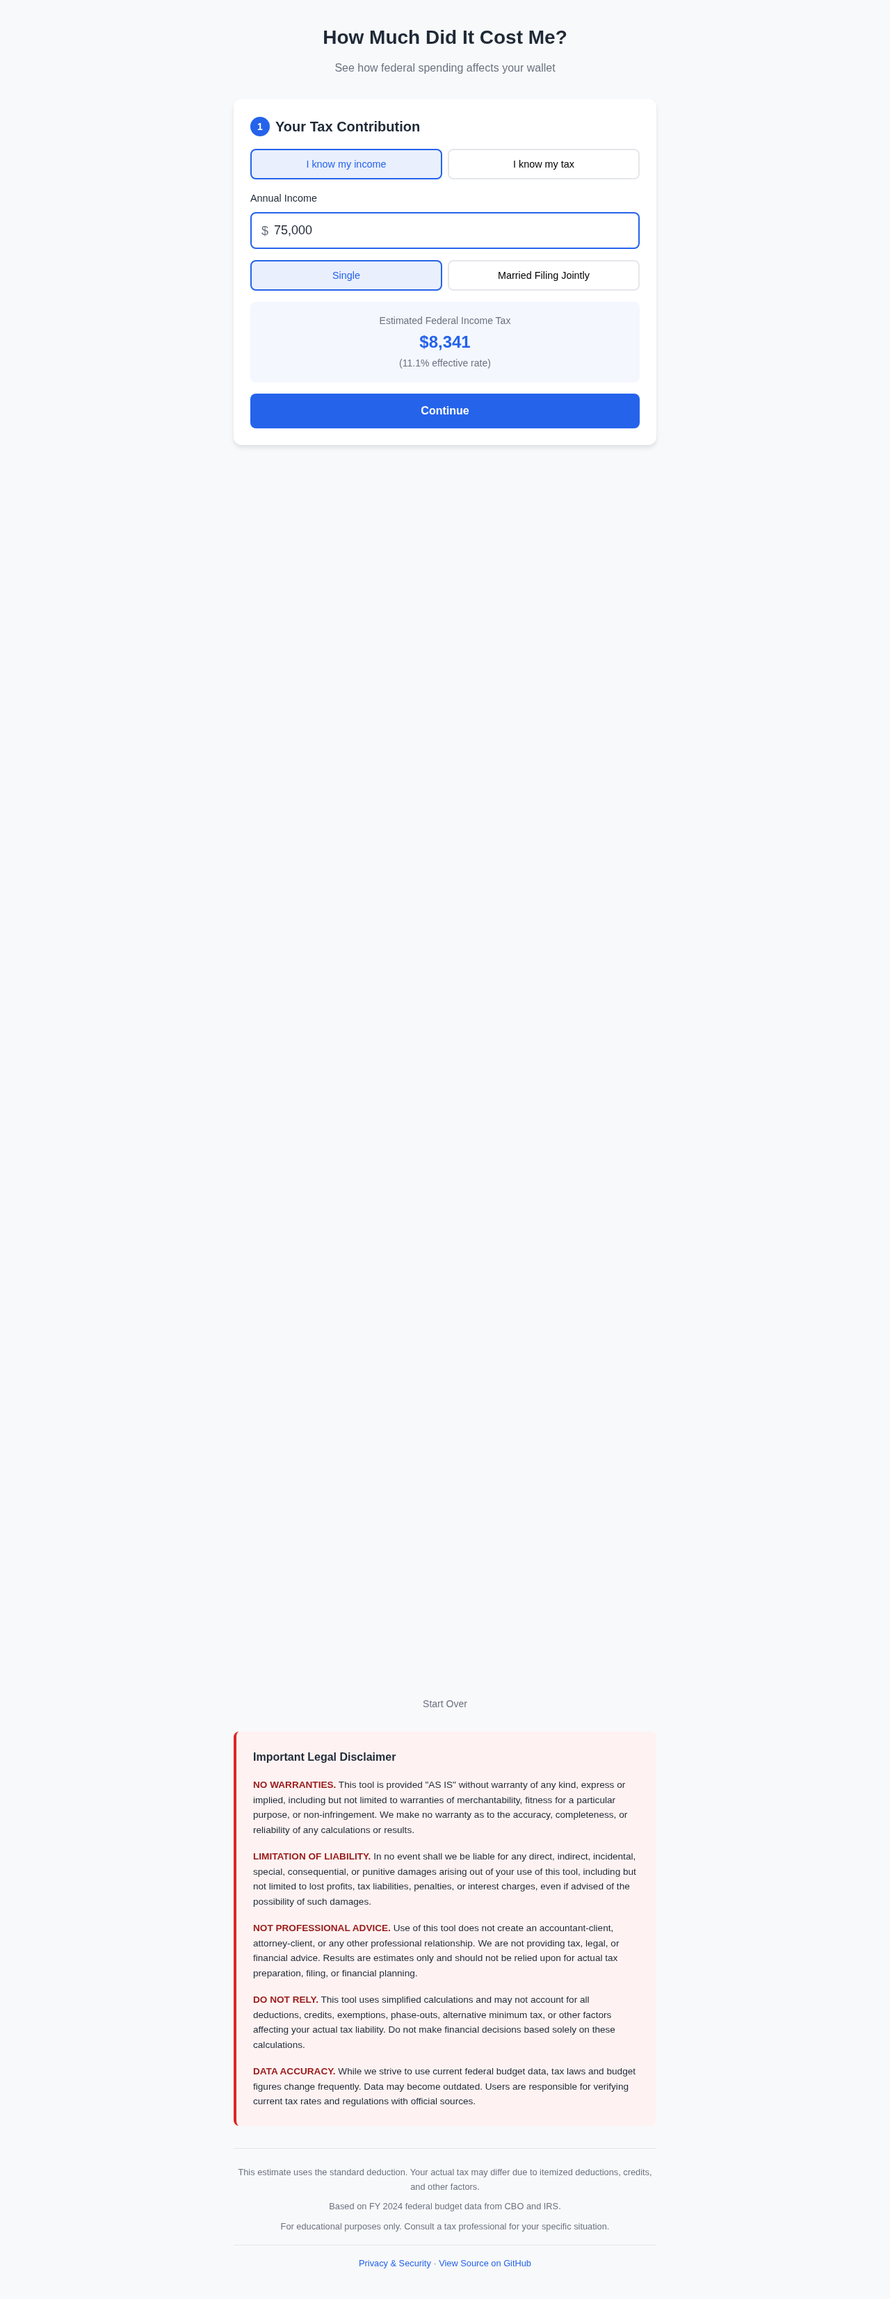
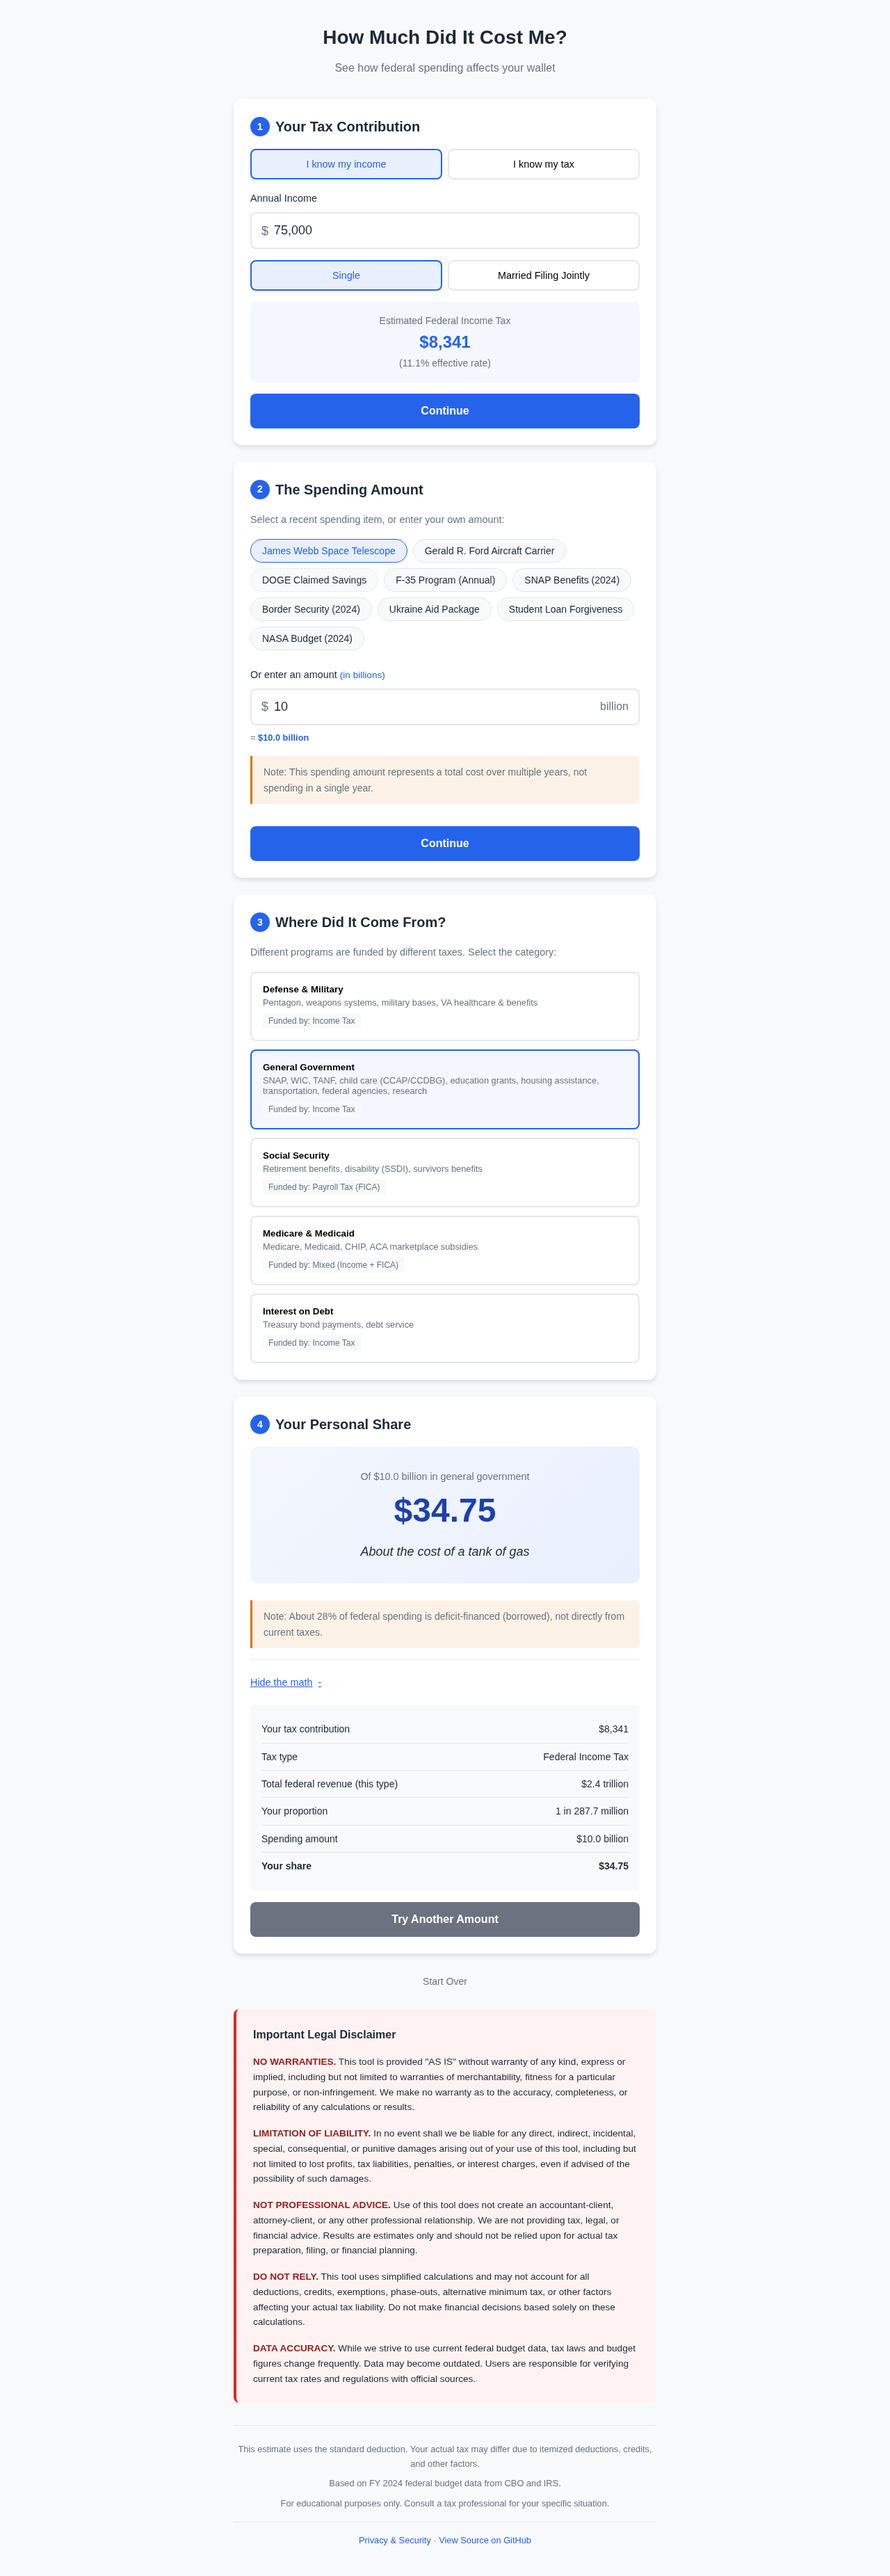
Update screenshots and extend tests for dark mode
- Update light-mode.png and dark-mode.png to show full calculation flow
  with all stages visible including results and math breakdown
- Extend impatient-user-test.js to run in both light and dark modes
- Add playwright as a direct dependency for local test running

diff --git a/tests/impatient-user-test.js b/tests/impatient-user-test.js
@@ -1,6 +1,7 @@
 // Impatient User Test - Automated Playwright test for PR reviews
 // This test simulates a user who wants to quickly check federal spending costs
 // and expects the app to remember their information for faster repeat visits
+// Tests both light and dark mode to ensure proper theming support
 
 import { chromium } from 'playwright';
 import fs from 'fs';
@@ -9,17 +10,18 @@ import path from 'path';
 const BASE_URL = process.env.TEST_URL || 'http://localhost:8080';
 const SCREENSHOTS_DIR = process.env.SCREENSHOTS_DIR || './test-screenshots';
 const RESULTS_FILE = process.env.RESULTS_FILE || './test-results.json';
+const COLOR_SCHEMES = ['light', 'dark'];
 
-(async () => {
-  // Ensure screenshots directory exists
-  if (!fs.existsSync(SCREENSHOTS_DIR)) {
-    fs.mkdirSync(SCREENSHOTS_DIR, { recursive: true });
-  }
+async function runTestForColorScheme(browser, colorScheme, allResults) {
+  const schemePrefix = colorScheme === 'dark' ? 'dark-' : '';
+  const schemeName = colorScheme.charAt(0).toUpperCase() + colorScheme.slice(1);
+
+  console.log(`\n${'='.repeat(60)}`);
+  console.log(`  TESTING ${schemeName.toUpperCase()} MODE`);
+  console.log(`${'='.repeat(60)}`);
 
   const results = {
-    status: 'PASSED',
-    timestamp: new Date().toISOString(),
-    baseUrl: BASE_URL,
+    colorScheme,
     firstVisit: {
       steps: [],
       success: true
@@ -32,13 +34,15 @@ const RESULTS_FILE = process.env.RESULTS_FILE || './test-results.json';
     screenshots: []
   };
 
-  const browser = await chromium.launch({ headless: true });
-  const context = await browser.newContext({ viewport: { width: 1280, height: 720 } });
+  const context = await browser.newContext({
+    viewport: { width: 1280, height: 720 },
+    colorScheme: colorScheme
+  });
   const page = await context.newPage();
 
   // Helper to take screenshot and record it
   async function screenshot(name) {
-    const filename = `${name}.png`;
+    const filename = `${schemePrefix}${name}.png`;
     const filepath = path.join(SCREENSHOTS_DIR, filename);
     await page.screenshot({ path: filepath, fullPage: true });
     results.screenshots.push(filename);
@@ -48,21 +52,20 @@ const RESULTS_FILE = process.env.RESULTS_FILE || './test-results.json';
   // Helper to add step result
   function addStep(visit, message, success = true) {
     results[visit].steps.push({ message, success, timestamp: new Date().toISOString() });
-    console.log(`[${visit}] ${success ? '✓' : '✗'} ${message}`);
+    console.log(`[${schemeName}/${visit}] ${success ? '✓' : '✗'} ${message}`);
     if (!success) {
       results[visit].success = false;
-      results.status = 'FAILED';
     }
   }
 
   // Helper to add issue
   function addIssue(issue) {
-    results.issues.push(issue);
-    console.log(`[ISSUE] ${issue}`);
+    results.issues.push(`[${schemeName}] ${issue}`);
+    console.log(`[${schemeName}/ISSUE] ${issue}`);
   }
 
   try {
-    console.log('\n=== FIRST VISIT (New User Experience) ===\n');
+    console.log(`\n=== ${schemeName.toUpperCase()} MODE: FIRST VISIT (New User Experience) ===\n`);
 
     // Step 1: Navigate to the app
     await page.goto(BASE_URL, { waitUntil: 'networkidle' });
@@ -169,7 +172,7 @@ const RESULTS_FILE = process.env.RESULTS_FILE || './test-results.json';
       addIssue('Results page should show personal share amount');
     }
 
-    console.log('\n=== SECOND VISIT (Returning User Experience) ===\n');
+    console.log(`\n=== ${schemeName.toUpperCase()} MODE: SECOND VISIT (Returning User Experience) ===\n`);
 
     // Navigate back to simulate return visit (localStorage persists in same context)
     await page.goto(BASE_URL, { waitUntil: 'networkidle' });
@@ -216,19 +219,18 @@ const RESULTS_FILE = process.env.RESULTS_FILE || './test-results.json';
     addStep('secondVisit', 'Returning user can immediately proceed to spending selection');
 
   } catch (error) {
-    results.status = 'FAILED';
     addIssue(`Test error: ${error.message}`);
-    console.error('Test error:', error);
+    console.error(`[${schemeName}] Test error:`, error);
     try {
       await screenshot('error');
     } catch (e) {
       // Ignore screenshot errors
     }
   } finally {
-    await browser.close();
+    await context.close();
   }
 
-  // Calculate summary
+  // Calculate summary for this color scheme
   results.summary = {
     firstVisitSteps: results.firstVisit.steps.length,
     firstVisitPassed: results.firstVisit.success,
@@ -238,11 +240,62 @@ const RESULTS_FILE = process.env.RESULTS_FILE || './test-results.json';
     screenshotCount: results.screenshots.length
   };
 
+  return results;
+}
+
+// Main test runner
+(async () => {
+  // Ensure screenshots directory exists
+  if (!fs.existsSync(SCREENSHOTS_DIR)) {
+    fs.mkdirSync(SCREENSHOTS_DIR, { recursive: true });
+  }
+
+  const browser = await chromium.launch({ headless: true });
+  const allResults = {
+    status: 'PASSED',
+    timestamp: new Date().toISOString(),
+    baseUrl: BASE_URL,
+    colorSchemes: {},
+    issues: [],
+    screenshots: []
+  };
+
+  // Run tests for each color scheme
+  for (const colorScheme of COLOR_SCHEMES) {
+    const schemeResults = await runTestForColorScheme(browser, colorScheme, allResults);
+    allResults.colorSchemes[colorScheme] = schemeResults;
+    allResults.screenshots.push(...schemeResults.screenshots);
+    allResults.issues.push(...schemeResults.issues);
+
+    // If any color scheme fails, mark overall as failed
+    if (!schemeResults.firstVisit.success || !schemeResults.secondVisit.success) {
+      allResults.status = 'FAILED';
+    }
+  }
+
+  await browser.close();
+
+  // Calculate overall summary
+  allResults.summary = {
+    colorSchemesTested: COLOR_SCHEMES.length,
+    lightModePassed: allResults.colorSchemes.light?.firstVisit.success && allResults.colorSchemes.light?.secondVisit.success,
+    darkModePassed: allResults.colorSchemes.dark?.firstVisit.success && allResults.colorSchemes.dark?.secondVisit.success,
+    totalIssues: allResults.issues.length,
+    screenshotCount: allResults.screenshots.length
+  };
+
   // Write results to file
-  fs.writeFileSync(RESULTS_FILE, JSON.stringify(results, null, 2));
-  console.log(`\n=== TEST ${results.status} ===`);
-  console.log(`Results saved to: ${RESULTS_FILE}`);
+  fs.writeFileSync(RESULTS_FILE, JSON.stringify(allResults, null, 2));
+
+  console.log(`\n${'='.repeat(60)}`);
+  console.log(`  OVERALL TEST ${allResults.status}`);
+  console.log(`${'='.repeat(60)}`);
+  console.log(`Light Mode: ${allResults.summary.lightModePassed ? '✓ PASSED' : '✗ FAILED'}`);
+  console.log(`Dark Mode:  ${allResults.summary.darkModePassed ? '✓ PASSED' : '✗ FAILED'}`);
+  console.log(`Total Issues: ${allResults.summary.totalIssues}`);
+  console.log(`Screenshots: ${allResults.summary.screenshotCount}`);
+  console.log(`\nResults saved to: ${RESULTS_FILE}`);
   console.log(`Screenshots saved to: ${SCREENSHOTS_DIR}/`);
 
-  process.exit(results.status === 'PASSED' ? 0 : 1);
+  process.exit(allResults.status === 'PASSED' ? 0 : 1);
 })();
